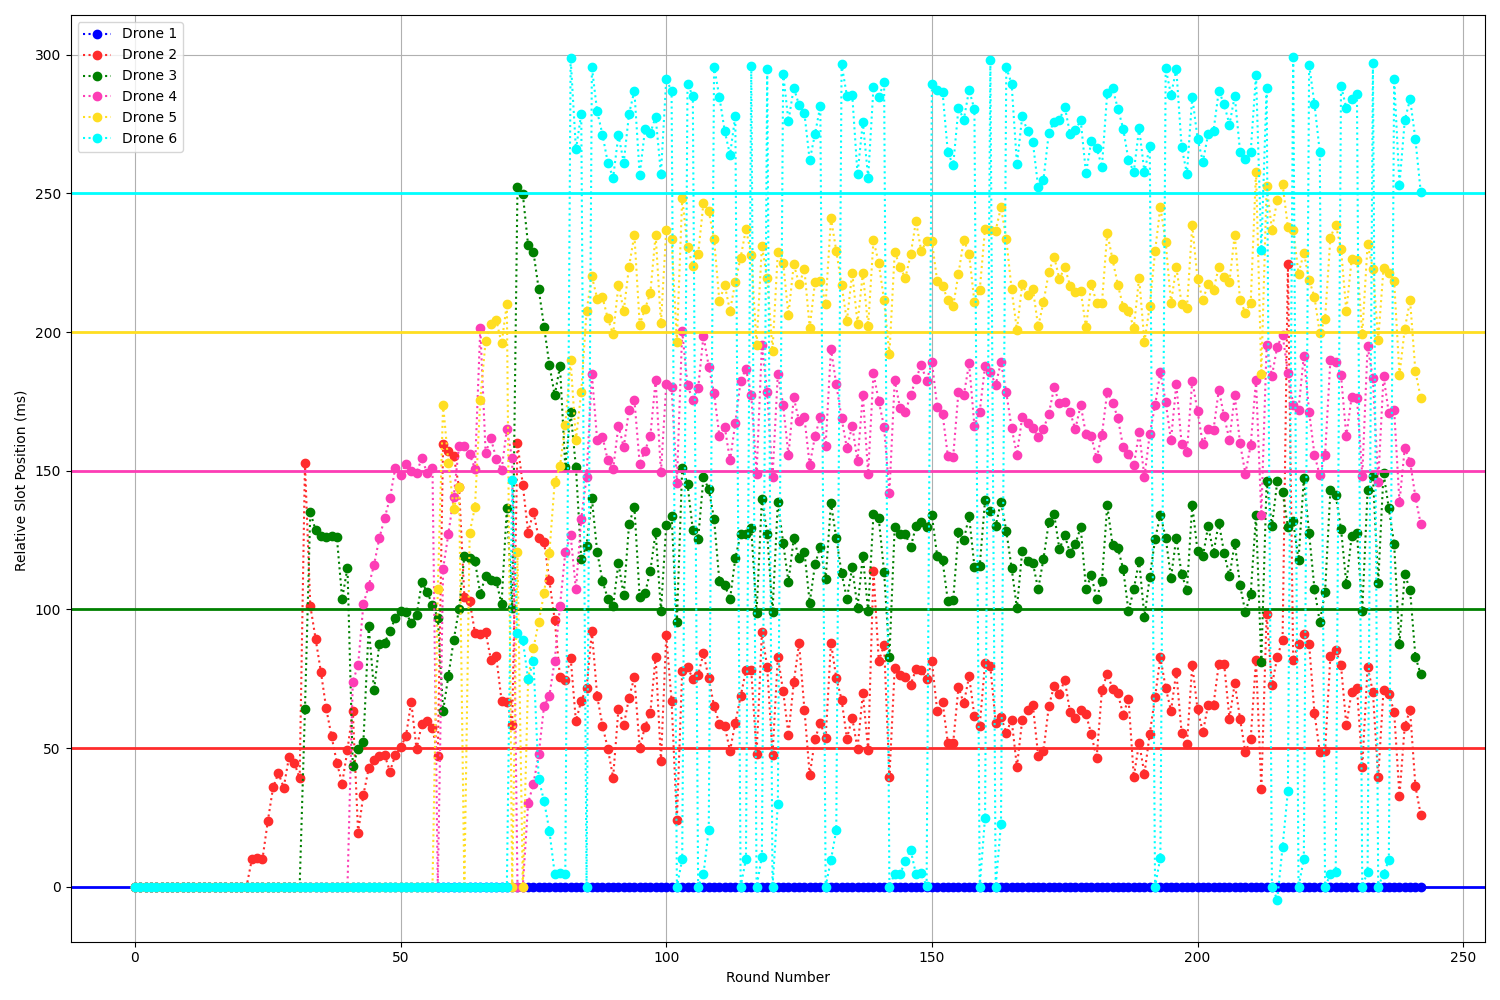
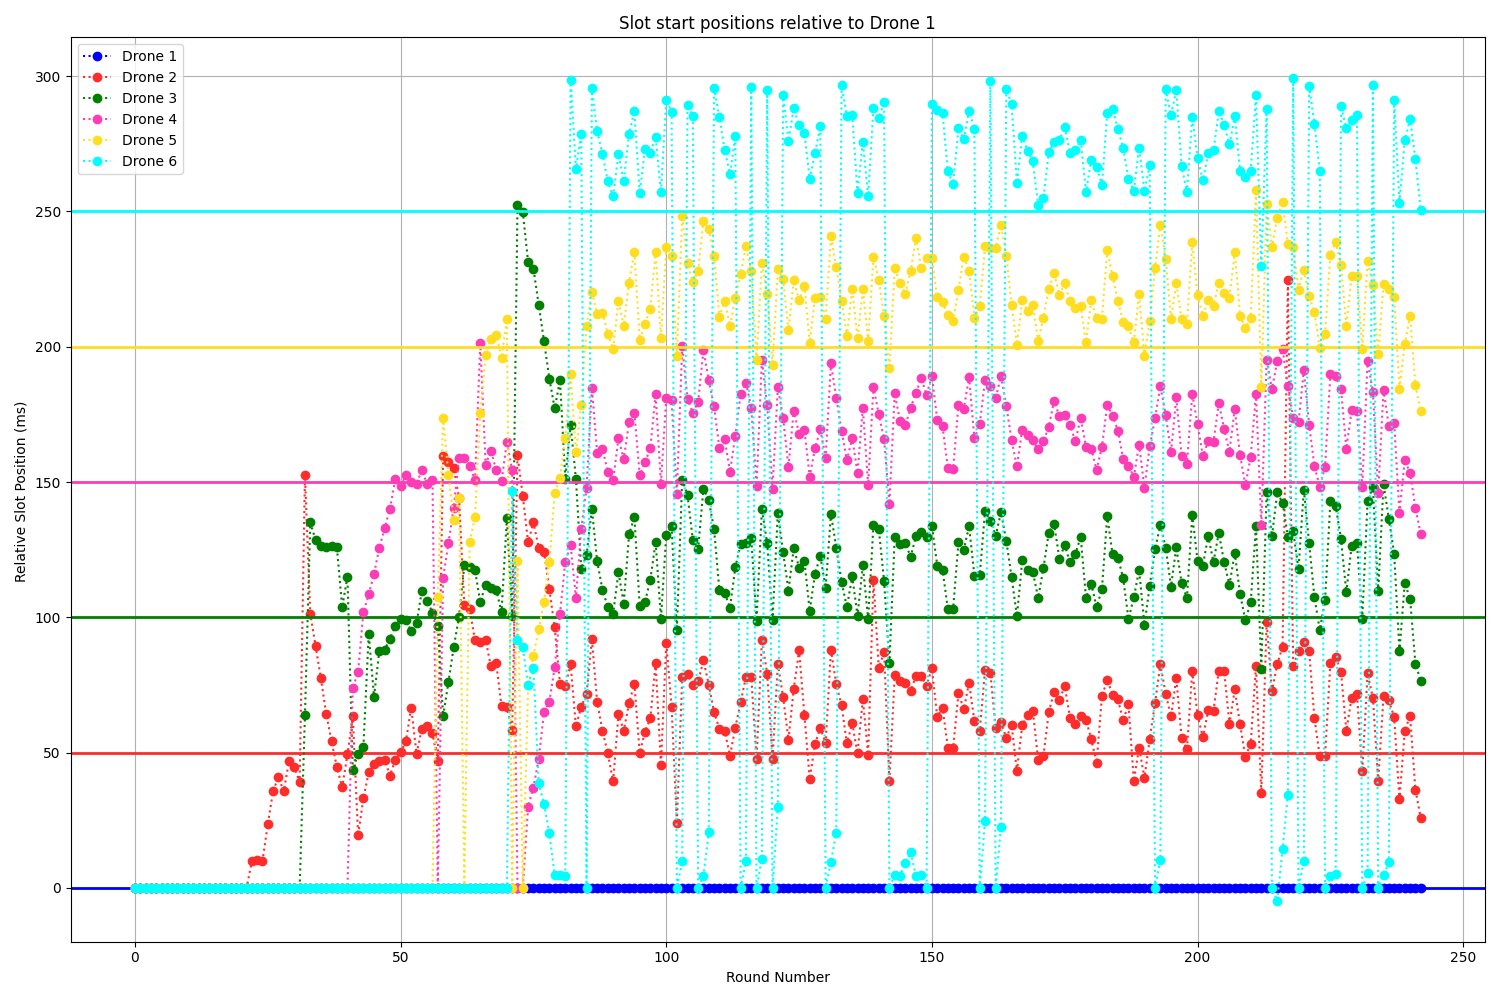
New charts

Changed region(s): [[0.0, 0.031, 0.9813, 0.899], [0.3987, 0.0, 0.6133, 0.031], [0.0307, 0.31, 0.0613, 0.372]]

diff --git a/docs/logs/generateReport.py b/docs/logs/generateReport.py
@@ -168,7 +168,7 @@ def read_data(node_name):
 def build_average_offset_chart(data):
     
     plt.clf()
-    plt.figure(figsize=(50,20))
+    plt.figure(figsize=(20,10))
 
     for node_name in data.keys():
         
@@ -190,6 +190,7 @@ def build_average_offset_chart(data):
 def build_total_offset_chart(data):
     
     plt.clf()
+    plt.figure(figsize=(20,10))
 
     for node_name in data.keys():
 
@@ -200,7 +201,7 @@ def build_total_offset_chart(data):
     
     plt.xlabel("Round Number")
     plt.ylabel("Total Offset (s)")
-    plt.title("Total Offset per Round")
+    plt.title("Total offset used by each node relative to its parent per round")
     plt.ticklabel_format(axis='y', style='sci', scilimits=(9,9))
     plt.legend()
     plt.grid(True)
@@ -364,10 +365,10 @@ def build_charts():
             else:
                 node_data['packet_arrival_time'].append([])
 
-    build_average_offset_chart(data)
+    #build_average_offset_chart(data)
     build_total_offset_chart(data)
     #build_overlap_chart(data)
-    build_delay_histograms(data)
+    #build_delay_histograms(data)
 
         
 

diff --git a/docs/logs/processTrace.py b/docs/logs/processTrace.py
@@ -326,6 +326,7 @@ def compute_position(path):
     plt.grid()
     plt.xlabel("Round Number")
     plt.ylabel("Relative Slot Position (ms) ")
+    plt.title("Slot start positions relative to Drone 1")
     plt.tight_layout()
     plt.savefig('./' + TEST_NAME +'/' + TEST_TYPE + '/' + 'slot-position.png')
 
@@ -471,6 +472,7 @@ def compare_throughput(tdma_path, csma_path):
     plt.grid()
     plt.xlabel("Sample Time (ms)")
     plt.ylabel("Network Throughput (Bytes / Sample Time)")
+    plt.title("Total Network Throughput - TDMA vs CSMA")
     plt.tight_layout()
     plt.savefig('./' + TEST_NAME +'/' + TEST_TYPE + '/' + 'network-throughput.png')
         
@@ -479,7 +481,7 @@ if __name__ == '__main__':
 
     #process_pcap('./' + TEST_NAME +'/' + TEST_TYPE + '/' + TRACE_NAME)
 
-    #compute_position('./' + TEST_NAME +'/' + TEST_TYPE + '/' + TRACE_NAME)
+    compute_position('./' + TEST_NAME +'/' + TEST_TYPE + '/' + TRACE_NAME)
 
     compare_throughput('./' + TEST_NAME +'/' + TEST_TYPE + '/' + TRACE_NAME, './' + TEST_NAME +'/csma')
 
